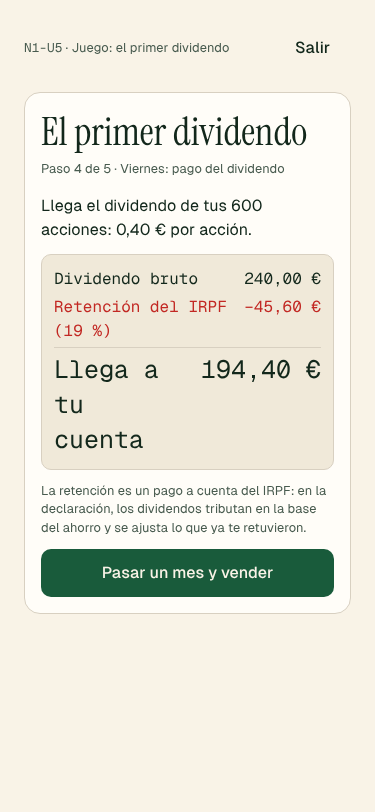
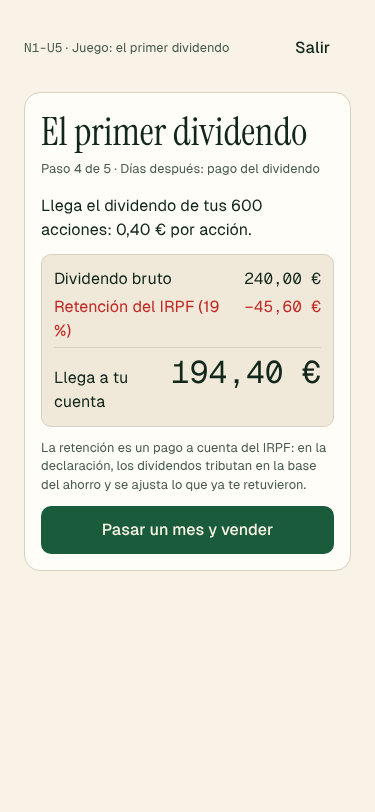
content: «El primer dividendo» (n1-u5-l7) revisada y en reviewed
- Correcciones de las dos rondas del revisor: e6 sin doble lectura, rangos de repaso de e3
  verosímiles, la retención como pago a cuenta (no coste), coste de cazar el dividendo en la
  pantalla final, «otra información relevante», sin afirmar la obligación del folleto de tarifas.
- Diseño: solo cifras en mono; apunte de la cuenta sin cortes a 375 px.
- Fuente de la CNMV (OIR); DECISIONES, CONTENIDO-QA, TEMARIO y spec.

Claude-Session: https://claude.ai/code/session_01MmSrs1YdgLJhPMsRgWQM9q

diff --git a/tests/dividend-game.test.tsx b/tests/dividend-game.test.tsx
@@ -17,9 +17,7 @@ describe('El primer dividendo (interfaz)', () => {
     expect(screen.getByText(/dividendo de 0,40/)).toBeInTheDocument();
     await user.click(screen.getByRole('button', { name: /^No hacer nada/ }));
     await user.click(screen.getByRole('button', { name: 'Siguiente' }));
-    await user.click(
-      screen.getByRole('button', { name: /^Más o menos el cierre menos el dividendo/ }),
-    );
+    await user.click(screen.getByRole('button', { name: /^El cierre menos el dividendo/ }));
     expect(await screen.findByRole('status')).toHaveTextContent('✓');
     expect(screen.getByTestId('dv-ex')).toHaveTextContent('11,72');
     await user.click(screen.getByRole('button', { name: 'Siguiente' }));
@@ -35,7 +33,7 @@ describe('El primer dividendo (interfaz)', () => {
   it('cazar el dividendo: la fecha ex enseña que solo quedan las comisiones', async () => {
     const user = userEvent.setup();
     render(<DividendGame seed={1} onDone={() => {}} />);
-    await user.click(screen.getByRole('button', { name: /^Banco del Turia/ }));
+    await user.click(screen.getByRole('button', { name: /^Ancla Inversión/ }));
     expect(screen.getByRole('status')).toHaveTextContent('Hay otro más barato');
     await user.click(screen.getByRole('button', { name: 'Siguiente' }));
     await user.click(screen.getByRole('button', { name: /^Comprar 300 más/ }));

diff --git a/src/features/games/DividendGame.tsx b/src/features/games/DividendGame.tsx
@@ -111,7 +111,7 @@ export function DividendGame({ seed, onDone }: Props) {
             <dd className="text-bull text-xl">+{formatEur(r.gross)}</dd>
           </div>
           <div className="col-span-2">
-            <dt className="text-text-2 text-sm">{t('dividend.total')}</dt>
+            <dt className="text-text-2 text-sm">{t('dividend.total', { n: formatNumber(s.n) })}</dt>
             <dd
               className={`text-2xl ${r.total >= 0 ? 'text-bull' : 'text-bear'}`}
               data-testid="dv-total"
@@ -120,6 +120,16 @@ export function DividendGame({ seed, onDone }: Props) {
               {formatNumber(Math.abs(r.total), 2)} %
             </dd>
           </div>
+          {capture && (
+            <div className="col-span-2">
+              <dt className="text-text-2 text-sm">
+                {t('dividend.captureLine', { n: formatNumber(CAPTURE_QTY) })}
+              </dt>
+              <dd className="text-bear text-xl" data-testid="dv-capture-cost">
+                −{formatEur(r.capLoss)}
+              </dd>
+            </div>
+          )}
         </dl>
         <p className="text-lg" data-testid="dv-verdict">
           {r.score >= 1

diff --git a/e2e/play-game.ts b/e2e/play-game.ts
@@ -29,14 +29,14 @@ export async function playGameLesson(
     // referencia 0: el bróker más barato, sin cazar el dividendo y acertando la fecha ex
     await expect(page.getByRole('heading', { name: 'El primer dividendo' })).toBeVisible();
     const s = setupDividend(seed);
-    const name = { llave: 'Llave Valores', fijo: 'Fijo Bolsa', banco: 'Banco del Turia' }[
+    const name = { llave: 'Llave Valores', fijo: 'Fijo Bolsa', banco: 'Ancla Inversión' }[
       BROKERS[cheapestBroker(s)]!.id
     ];
     await page.getByRole('button', { name: new RegExp(`^${name}`) }).click();
     await page.getByRole('button', { name: 'Siguiente' }).click();
     await page.getByRole('button', { name: /^No hacer nada/ }).click();
     await page.getByRole('button', { name: 'Siguiente' }).click();
-    await page.getByRole('button', { name: /^Más o menos el cierre menos el dividendo/ }).click();
+    await page.getByRole('button', { name: /^El cierre menos el dividendo/ }).click();
     await page.getByRole('button', { name: 'Siguiente' }).click();
     await page.getByRole('button', { name: 'Pasar un mes y vender' }).click();
   } else if (kind === 'index-mover') {

diff --git a/docs/TEMARIO.md b/docs/TEMARIO.md
@@ -69,7 +69,7 @@ Cada bloque lleva su nivel de contenido (N1, N3…), que es el prefijo de sus ID
 **Planta 0 · Becario — Mercados en vivo (N1, sem. 1–6)**
 Empresa y acción · mercado primario/secundario, OPV · BME, mercado continuo, IBEX 35, **BME Growth**, índices mundiales · formación de precios, horquilla, liquidez · órdenes y subastas · cómo abrir un bróker en España · dividendos, **scrip dividend**, ampliaciones y **derechos de suscripción**, splits, recompras · **OPAs** (cómo funcionan en España) · capitalización y free float · OTC.
 🧮 rentabilidad total, rentabilidad por dividendo · 🏛 ganancias patrimoniales, dividendos, venta de derechos · 🧠 FOMO y efecto manada · 📊 porcentajes, VF, VA · 📄 anuncio de una OPA en la CNMV.
-**Unidades de la planta 0 y su juego** (IDs de siempre; cambia el orden): 1. La empresa y la acción (`n1-u1`) → **Tus primeras acciones** (`n1-u1-l6`, hecho: noticias de Naranjas, capitalización y free float) · 2. Precios, órdenes y subastas (`n1-u4`) → **La compra grande** (`n1-u4-l7`, hecho) y **La subasta de apertura** (`n1-u4-l8`, hecho) · 3. Bolsas e índices (`n1-u3`) → **¿Quién mueve el índice?** (`n1-u3-l6`, hecho) · 4. Operar en España: bróker, dividendos y fiscalidad (`n1-u5`) → tu primer dividendo en La Mesa · 5. Mercado primario y secundario (`n1-u2`) · 6. Operaciones corporativas y OPAs (`n1-u6`) → *rumor de OPA*. Psicología (FOMO, manada, exceso de confianza → *El trader impulsivo*) va dentro de las unidades 2 y 4 hasta que tenga unidad propia.
+**Unidades de la planta 0 y su juego** (IDs de siempre; cambia el orden): 1. La empresa y la acción (`n1-u1`) → **Tus primeras acciones** (`n1-u1-l6`, hecho: noticias de Naranjas, capitalización y free float) · 2. Precios, órdenes y subastas (`n1-u4`) → **La compra grande** (`n1-u4-l7`, hecho) y **La subasta de apertura** (`n1-u4-l8`, hecho) · 3. Bolsas e índices (`n1-u3`) → **¿Quién mueve el índice?** (`n1-u3-l6`, hecho) · 4. Operar en España: bróker, dividendos y fiscalidad (`n1-u5`) → **El primer dividendo** (`n1-u5-l7`, hecho) · 5. Mercado primario y secundario (`n1-u2`) · 6. Operaciones corporativas y OPAs (`n1-u6`) → *rumor de OPA*. Psicología (FOMO, manada, exceso de confianza → *El trader impulsivo*) va dentro de las unidades 2 y 4 hasta que tenga unidad propia.
 
 **Planta 1 · Analista Junior — Leer una empresa (N3, sem. 7–16)**
 Balance, PyG, flujos de caja y cómo se conectan · **PGC español vs NIIF/IFRS** · **consolidación** (minoritarios, puesta en equivalencia), **fondo de comercio y deterioros** (amortización en 10 años en PGC frente a test de deterioro en NIIF), provisiones, **arrendamientos (IFRS 16)**, **reconocimiento de ingresos (NIIF 15)**, **impuestos diferidos (NIC 12)** · estado de flujos por el método indirecto construido desde dos balances · ratios y análisis: árbol DuPont, ROIC frente a WACC, conversión de beneficio en caja · **circulante y ciclo de caja** · **financiación de la empresa:** préstamo bancario y sindicado, leasing, renting, factoring, confirming, emisión de bonos · estructura de capital (Modigliani-Miller intuitivo) · **coste de capital: CAPM, beta apalancada y desapalancada (Hamada), coste de la deuda después de impuestos y WACC** · política de dividendos · presupuesto de capital (VAN, TIR) · múltiplos · DCF paso a paso (FCFF, mitad de año, valor terminal por Gordon y por múltiplo) · trampas contables.

diff --git a/DECISIONES.md b/DECISIONES.md
@@ -454,3 +454,15 @@ Fuentes clonadas en `~/.compuesto-skills-src/` (fuera del repo). Revisión previ
 - **Datos:** acciones de `companies.json` (un test lo comprueba); precios cercanos a la cinta de La Mesa; free float fijado por empresa en el motor (`src/engine/games/index-mover.ts`). Los pesos de cada día salen de los precios del cierre anterior.
 - **Acierto:** a 0,15 p. p. o menos cuenta 1; a 0,5 p. p. o menos, medio.
 - La lección abre la unidad (`order: 0`). Javier debe comprobar el tope del 20 % del IBEX en el PDF de las Normas Técnicas: desde aquí solo se pudo citar la página de índices de BME.
+
+## 2026-10-18 — Lección-juego «El primer dividendo» (`n1-u5-l7`)
+
+- **Decisión:** el juego de la unidad 4 de la planta 0 es una historia en cinco pasos con Pirineo Energía. Lo que propuse antes, «tu primer dividendo en La Mesa», queda para más adelante: meter eventos de empresa en el mercado vivo es un cambio mayor.
+  1. Eliges bróker entre tres ficticios: 0,10 % con mínimo de 1 €; 5 € fijos; 0,25 % con mínimo de 8 €. El más barato depende del importe; el corte entre 0,10 % y 5 € está en 5.000 €.
+  2. Decides si «cazas» el dividendo comprando 300 acciones el día antes de la fecha ex y vendiéndolas ese día.
+  3. Predices el precio de referencia en la fecha ex.
+  4. Cobras el dividendo con la retención del 19 %, que es un pago a cuenta.
+  5. Vendes un mes después.
+- **Supuesto del motor:** en la fecha ex el precio de referencia es exactamente el cierre anterior menos el dividendo bruto, y cazar el dividendo cuesta solo dos comisiones, antes de impuestos. 🛑 Pendiente de citar la norma exacta de BME sobre el ajuste del precio de referencia: no se pudo abrir desde el entorno y la búsqueda no la encontró. La lección lleva `verificarAntesDe` 2027-03-31, como `n1-u5-l5`.
+- **Nombres ficticios:** Llave Valores, Fijo Bolsa y Ancla Inversión. «Banco del Turia» se descartó porque sonaba a una entidad real. 🛑 Javier los comprobará en los registros de la CNMV.
+- **Repaso de e3:** los rangos de coste y venta no se solapan. Si se solapan, salen rentabilidades cercanas al 0 % y la tolerancia relativa no admite el redondeo a 2 decimales.

diff --git a/docs/specs/primer-dividendo.md b/docs/specs/primer-dividendo.md
@@ -1,0 +1,20 @@
+# Spec: lección-juego «El primer dividendo» (`n1-u5-l7`)
+
+Motor: `src/engine/games/dividend-day.ts`. Interfaz: `src/features/games/DividendGame.tsx`. Textos: `es.json` → `dividend`.
+
+## Reglas
+- Compras n acciones (200, 300, 400, 600 u 800) de Pirineo Energía a entre 12,00 y 12,49 €. El dividendo está entre 0,30 y 0,50 € por acción.
+- Comisión = máx.(porcentaje × importe, mínimo). El bróker más barato se calcula para la orden de compra.
+- Precio de referencia en la fecha ex = cierre anterior − dividendo. Un mes después, el precio sube entre un 2 % y un 5 % desde ahí.
+- Retención: 19 % del bruto. Rentabilidad total (antes de impuestos) = (venta neta − coste con comisión + dividendo bruto) ÷ coste.
+- Cazar el dividendo con 300 acciones cuesta las dos comisiones; el dividendo bruto compensa justo la bajada del precio.
+- Nota: un tercio por cada acierto (bróker más barato, no cazar el dividendo, acertar el precio en la fecha ex).
+
+## Escenarios
+- **Cuando** eliges bróker, **entonces** ves la comisión de cada uno para tu orden, con ✓ en el más barato.
+- **Cuando** decides cazar el dividendo, **entonces** en la fecha ex se explica que solo quedan las comisiones y que la retención es un adelanto del IRPF; en el resultado aparece su coste.
+- **En el pago**, se ven el bruto, la retención y el neto que llega a la cuenta.
+- **Al vender**, se ven coste, venta, ganancia por precio, dividendo y rentabilidad total con ▲▼ y signo.
+
+## Verificación
+`dividend-day.test.ts`, `tests/dividend-game.test.tsx`, `e2e/leccion-juego.spec.ts` (axe y 375 px en cada paso), `e2e/n1u5.spec.ts` (la unidad entera) y `content:validate` con cuatro partidas de referencia.

diff --git a/CONTENIDO-QA.md b/CONTENIDO-QA.md
@@ -161,3 +161,15 @@ Abre la planta 0 (unidad `n1-u1`). Juego: cinco noticias de Naranjas del Turia; 
   - la tarjeta 3 explica qué es el mercado continuo y dice «tope en cada revisión», DAX 40 y Euro Stoxx 50 (con la misma fuente que l4);
   - e6, longitud de las opciones y explicación del distractor 2.
 - **Ronda 2:** aprobada; dos retoques aplicados («p. p.» en e5 y e8, y la frase del Euro Stoxx 50). Estado: `reviewed`. 🛑 Pendiente de la revisión de Javier, incluido el tope del 20 % en las Normas Técnicas del IBEX.
+
+## n1-u5-l7 — Lección-juego «El primer dividendo» (18/10/2026)
+
+- **Ronda 1 (revisor-financiero):** cambios necesarios. Mayores aplicados:
+  - e6 tenía dos respuestas defendibles; se cambió el ítem por el de la retención;
+  - los parámetros de repaso de e3 daban rentabilidades absurdas;
+  - e4 y el texto del juego trataban la retención como un coste;
+  - la pantalla final no descontaba el coste de cazar el dividendo;
+  - el folleto de tarifas se citaba como obligatorio sin fuente; ahora no se afirma.
+
+  Menores aplicados: «otra información relevante» en lugar de «hecho relevante», el día de pago sin fijar, «el cierre menos el dividendo», la bajada por acción en la tarjeta 2, «descontadas las comisiones», e7 (anuncio y «comprar como tarde»), e8 sin exagerar y el nombre «Banco del Turia» cambiado.
+- **Ronda 2:** solo faltaban fuentes concretas. Añadida la consulta de «otra información relevante» de la CNMV; la norma de BME sobre el ajuste por dividendo queda pendiente (ver DECISIONES.md). Estado: `reviewed`. 🛑 Pendiente de la revisión de Javier y de comprobar en la CNMV los nombres de los brókers.
